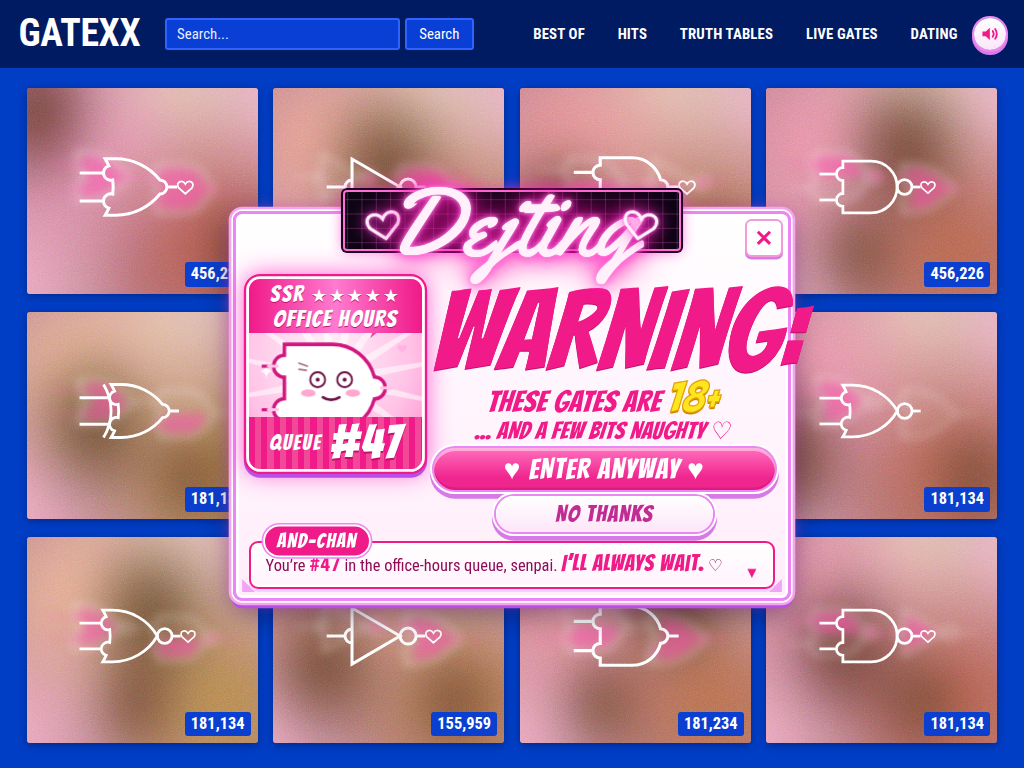
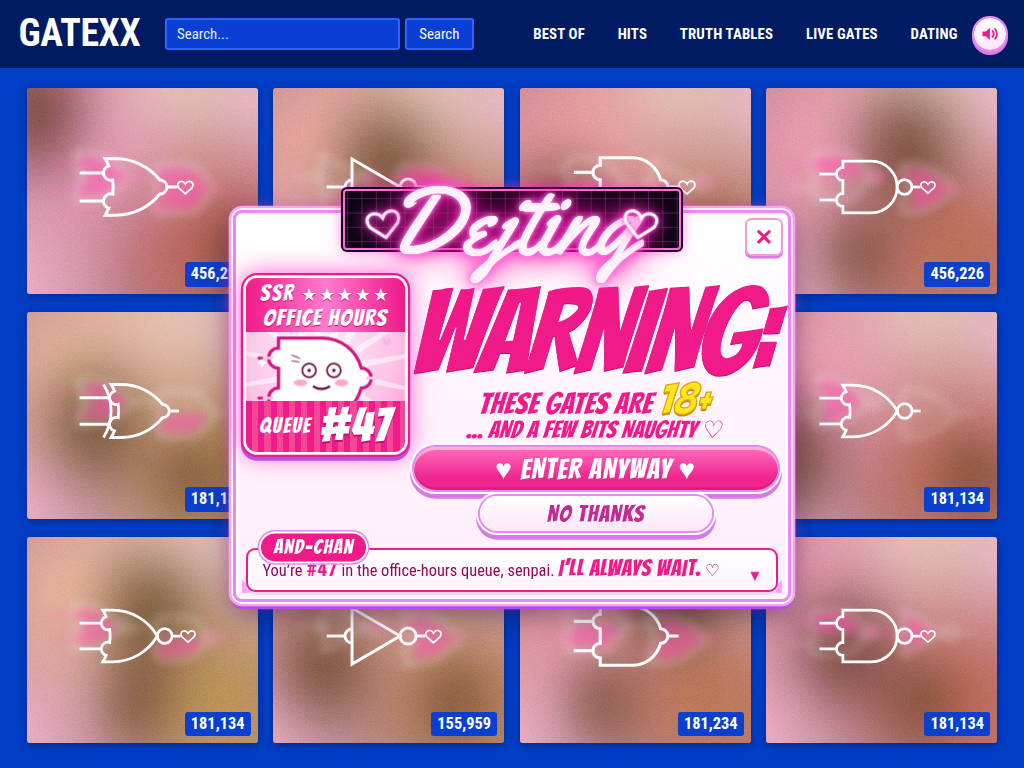
pit4/r3-2: h2 WARNING .119/.117 H, 4:3 column fit, span .69, Pillow measure + shots
Claude-Session: https://claude.ai/code/session_01MbPdze8rChHd7yWMKqzLQw

Changed region(s): [[0.2188, 0.2188, 0.8125, 0.8125], [0.75, 0.5938, 0.7812, 0.6562]]

diff --git a/src/date/h2/gate.css b/src/date/h2/gate.css
@@ -221,16 +221,22 @@ a { color: inherit; }
 
 /* ---------- h2 (pit4 r3-2): VERDICT-r2 g1 fixes ---------- */
 /* fix 2: WARNING cap .11-.13 H at 1024 too: height-driven size, sprite column narrows on 4:3 so it fits */
-.h2 .warn { font-size: max(calc(var(--u) * 8.8), 14.6vh); }
+.h2 .warn { font-size: max(calc(var(--u) * 8.8), 15.3vh); }
+/* 4:3 and narrower: the sprite column gives up width so the height-scaled WARNING still fits inside the panel */
+@media (max-aspect-ratio: 3/2) { .h2 .cols { grid-template-columns: calc(var(--u) * 15.5) 1fr !important; gap: calc(var(--u) * .9) !important; }
+  .h2 .warn { letter-spacing: -.025em; padding-right: calc(var(--u) * 1); } .h2 .modal { padding-left: calc(var(--u) * 1); padding-right: calc(var(--u) * 1); } }
 /* fix 4: modal + sign <= .70 H at 1440: tighter plate gap, textbox and choices */
 .h2 .plate { margin-bottom: calc(var(--u) * 2.1); }
 .h2 .adv { margin-top: calc(var(--u) * .9); }
 .h2 .choices { gap: calc(var(--u) * .55); margin-top: calc(var(--u) * .5); }
-.h2 .modal { padding-bottom: calc(var(--u) * .9); }
-.h2 .cols { grid-template-columns: min(calc(var(--u) * 17.5), 22.5vh) 1fr; gap: calc(var(--u) * 1.2); }
+.h2 .modal { padding-bottom: calc(var(--u) * .7); }
+.h2 .adv { padding-top: calc(var(--u) * .75); padding-bottom: calc(var(--u) * .4); }
+.h2 .sub { margin-top: 0; }
+.h2 .cols { grid-template-columns: calc(var(--u) * 17.5) 1fr; gap: calc(var(--u) * 1.2); }
 /* fix 1: I'LL ALWAYS WAIT is solid ink, Bangers, 1.4x, no tear */
 .h2 .adv .wait { display: inline-block; font: 400 1.4em/1 'Bangers', cursive; letter-spacing: .03em; color: #f01a88; }
 .h2 .adv .wait .ghost { visibility: hidden; }
 /* fix 5: the queue joke reads without the textbox: OFFICE HOURS on the SSR band */
 .h2 .rarity { flex-wrap: wrap; row-gap: calc(var(--u) * .15); }
 .h2 .rarity .oh { flex-basis: 100%; text-align: center; font-size: 1.05em; letter-spacing: .06em; }
+@media (max-aspect-ratio: 3/2) { .h2 .adv { margin-top: calc(var(--u) * 1.6); } }

diff --git a/research/pit4/pit4-r3-2/measure.py b/research/pit4/pit4-r3-2/measure.py
@@ -1,0 +1,27 @@
+# Pillow check of the h2 gate stills: WARNING pink-row cap height / H (inside the .warn box from boxes.json),
+# lowest Dejting tube pixel vs WARNING top (clearance), modal+sign span, L/R luminance.
+# usage: python3 measure.py   (after shots.mjs wrote shots/*.png and boxes.json)
+import json, os
+import numpy as np
+from PIL import Image
+D = os.path.dirname(os.path.abspath(__file__))
+boxes = json.load(open(os.path.join(D, 'boxes.json')))
+for f, b in boxes.items():
+    im = np.asarray(Image.open(os.path.join(D, 'shots', f)).convert('RGB')).astype(int)
+    H, W = im.shape[:2]
+    x0, y0, x1, y1 = [int(v) for v in b['warn']]
+    c = im[y0:y1 + 10, x0:x1]
+    # solid headline pink (#f01a88 +-), navy shadow and white stroke excluded
+    pink = (abs(c[..., 0] - 238) < 24) & (c[..., 1] < 70) & (abs(c[..., 2] - 136) < 40)
+    rows = np.where(pink.sum(1) > 6)[0]
+    top, bot = rows.min() + y0, rows.max() + y0
+    # Dejting tube core: near-white pink pixels between the plate and WARNING, over the headline's x-span
+    nx0, ny0, nx1, ny1 = [int(v) for v in b['neon']]
+    z = im[ny0:top, x0:x1]
+    # the tube's own #ff7fe0 edge stroke (the panel is near-white, so white alone can't find the glyph)
+    tube = (z[..., 0] > 235) & (abs(z[..., 1] - 135) < 40) & (z[..., 2] > 200)
+    tr = np.where(tube.sum(1) > 2)[0]
+    low = ny0 + tr.max() if len(tr) else None
+    g = np.asarray(Image.open(os.path.join(D, 'shots', f)).convert('L'), float)
+    print(f, 'cap/H', round((bot - top) / H, 3),
+          'span', round((b['modal'][3] - b['neon'][1]) / H, 3), 'L/R', round(g[:, :W // 2].mean() / g[:, W // 2:].mean(), 3))
